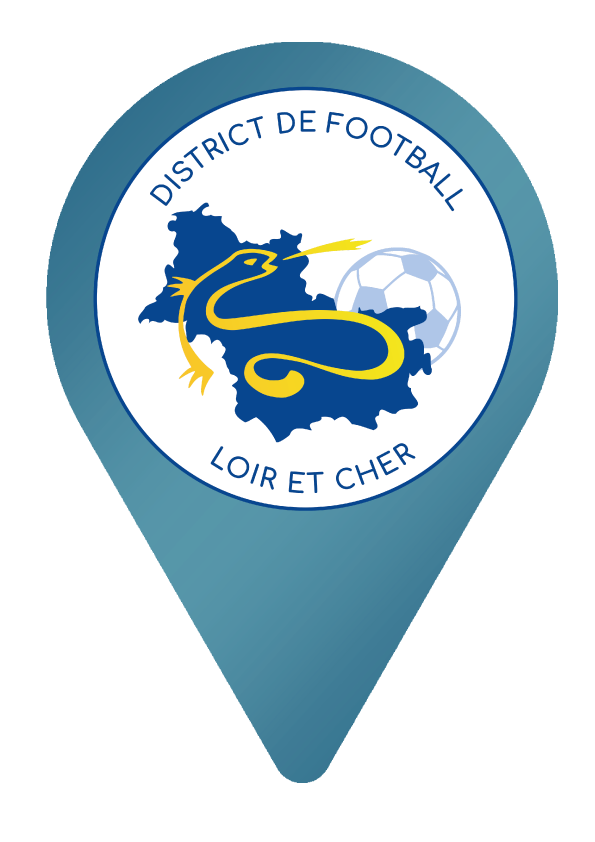
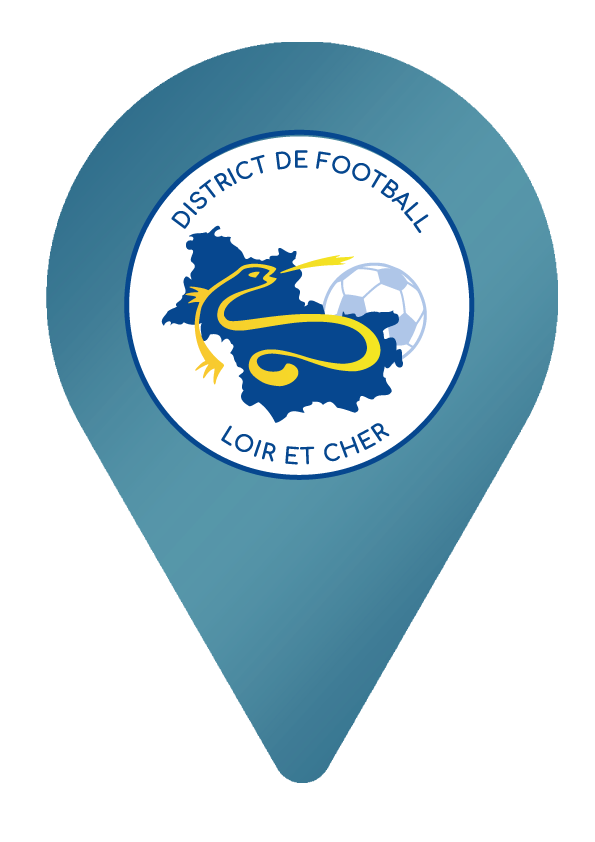
added pop up styles

Changed region(s): [[0.1513, 0.0926, 0.8773, 0.6176]]

diff --git a/src/components/Home/Home.jsx b/src/components/Home/Home.jsx
@@ -11,15 +11,17 @@ import LogoLigue from "../../assets/MarqueurLigue.png";
 import LogoLoiret from "../../assets/DistrictLoiret.png";
 import LogoEure from "../../assets/EureEtLoire.png";
 import LogoIndreLoire from "../../assets/IndreEtLoire.png";
-import LogoLoireCher from "../../assets/LoireEtCher.png";
-import LogoIndre from "../../assets/Marqueur-district-indre.png";
+import LogoLoireCher from "../../assets/Marqueurs/LoireCher2.png"
+import LogoIndre from "../../assets/indre.png";
 import LogoCher from "../../assets/Marqueur cher (1).png";
 import Header from "../header/Header";
 import Filters from "../filters/Filter";
 import Loader from "../loader/Loader";
+import loc from '../../assets/PopUp/localisation.png';
+import mail from '../../assets/PopUp/mail.png';
+import tel from '../../assets/PopUp/tel.png'
 
 function Home() {
-  const [instance, setInstance] = useState([]);
   const [club, setClub] = useState([]);
   const [equipe, setEquipe] = useState([]);
   const location = useGeolocation();
@@ -56,7 +58,7 @@ function Home() {
 
   const MarkerLoireEtCher = L.icon({
     iconSize: [50, 50],
-    iconAnchor: [23.5, 47],
+    iconAnchor: [40, 110],
     iconUrl: LogoLoireCher,
   });
 
@@ -124,7 +126,6 @@ function Home() {
             <a href="https://service-clubs.foot-centre.fr/">
               <img className="logoLigue" src={LogoLigue} />
               <h1>Ligue Centre Val de Loire </h1>
-              <h2> {instance.info} </h2>
             </a>
           </Popup>
         </Marker>
@@ -148,7 +149,6 @@ function Home() {
             <a href="https://stage.foot-centre.fr">
               <img className="logoInstance" src={LogoCher} />
               <h1>District de Football du Cher </h1>
-              <h2> {instance.info} </h2>
             </a>
           </Popup>
         </Marker>
@@ -157,7 +157,6 @@ function Home() {
             <a href="https://stage.foot-centre.fr">
               <img className="logoInstance" src={LogoEure} />
               <h1>District de Football d'Eure Et Loire </h1>
-              <h2> {instance.info} </h2>
             </a>
           </Popup>
         </Marker>
@@ -166,7 +165,6 @@ function Home() {
             <a href="https://stage.foot-centre.fr">
               <img className="logoInstance" src={LogoIndre} />
               <h1>District de Football de l'Indre </h1>
-              <h2> {instance.info} </h2>
             </a>
           </Popup>
         </Marker>
@@ -175,17 +173,22 @@ function Home() {
             <a href="https://stage.foot-centre.fr">
               <img className="logoInstance" src={LogoIndreLoire} />
               <h1>District de Football de l'Indre </h1>
-              <h2> {instance.info} </h2>
             </a>
           </Popup>
         </Marker>
-        <Marker position={[47.9168433, 1.9246721]} icon={MarkerLoiret} src="instance">
+        <Marker position={[47.9168433, 1.9246721]} icon={MarkerLoiret} >
           <Popup className="InstancePopUp">
             <a href="">
               <img className="logoInstance" src={LogoLoiret} />
               <h1>District de Football du Loiret </h1>
-              <h2> {instance.info} </h2>
             </a>
+          </Popup>
+        </Marker>
+        <Marker position={[47.5766331, 1.3026806]} icon={MarkerLoireEtCher}>
+          <Popup className="InstancePopUp">
+            <img className="logoInstance" src={LogoLoireCher}/>
+            <h1>District de Football du Loir et Cher</h1>
+
           </Popup>
         </Marker>
 
@@ -202,22 +205,21 @@ function Home() {
             return (
               <Marker position={[clubs.Lat, clubs.Longitude]} icon={markerClub}>
                 <Popup className="clubPopUp">
-                  <h1>{clubs.NomClub}</h1> <br></br>
-                  <h2>{clubs.AdressePostale}</h2>
+
+                  <h1 className="NameClub">{clubs.NomClub}</h1> <br></br>
+                <div className="details">
+                    <img src={loc} className="icons" />
+                  <h2 className="Content">{clubs.AdressePostale}</h2>
+                  </div>
                   <br></br>
-                  <h3>{clubs.MailClub}</h3>
+                  <div className="details">
+                  <img src={mail} className="mailIcon" />
+
+                  <h3 className="Content">{clubs.MailClub}</h3>
+
+                  </div>
                   <br></br>
-                  <p>
-                    {" "}
-                    Le championnat : {clubs.NomChampionnat}
-                    <br></br>
-                    L'équipe : {clubs.NomEquipe}
-                    <br></br>
-                    ID : {clubs.NumClub}
-                    <br></br>
-                    Nom : {clubs.NomClub}
-                    <br></br>
-                  </p>
+               
                 </Popup>
               </Marker>
             );

diff --git a/src/components/Club/Club.css b/src/components/Club/Club.css
@@ -5,8 +5,12 @@
 
 .Filtres {
   display: flex;
+  width: 100%;
   margin-bottom: 32px;
-  background-image: url("../../assets/filtres.png");
+  background-image: url("../../assets/Habillage/inputs.png");
+  background-position: center;
+  background-size: cover;
+  background-repeat: no-repeat;
   height: 10vh;
   flex-direction: row;
 }
@@ -15,24 +19,43 @@
   margin-top: 42px;
 }
 
-h1 {
-  color: black;
+.categoryFilter {
+  display: flex;
+  width: 100vw;
+  justify-content: center;
+  left: 10vw;
+  position: relative;
+}
+
+.selector {
+  position: relative;
+  left: 40%;
+  top: -20%;
+}
+
+.selector2 {
+  right: 22%;
+  top: -20%;
+  position: relative;
+}
+
+.buttonClub {
+  top: 14%;
 }
 
 .red {
-  color:#C1272D;
+  color: #c1272d;
   margin-right: 5px;
 }
 
 .blue {
-  color :#528BB9;
+  color: #528bb9;
   margin-right: 5px;
 }
 
 .results {
   display: flex;
   flex-direction: column;
-
 }
 
 .resultsDiv {
@@ -50,7 +73,6 @@ h1 {
 .resultsDivMobile {
   height: 200px;
 }
-
 
 .titleCard {
   border-bottom: 1px solid black;
@@ -72,7 +94,7 @@ button {
 }
 
 .filtresTitle {
-  margin-top:15vh;
+  margin-top: 15vh;
 }
 
 @media only screen and (min-width: 320px) and (max-width: 767px) {
@@ -89,7 +111,7 @@ button {
   .categoryFilter {
     display: block;
     width: 100vw;
-    margin:0;
+    margin: 0;
     height: 17vh;
     background-image: url("../../assets/filtres.png");
   }
@@ -114,7 +136,7 @@ button {
 
   .results {
     width: 100vw;
-    display: block;
+    display: flex;
   }
 
   .resultsDiv {
@@ -122,19 +144,17 @@ button {
   }
   .resultsDivMobile {
     width: 100vw;
-
+    background-color: red;
   }
 }
 @media only screen and (min-device-width: 768px) and (max-device-width: 1024px) {
-  
   .categoryFilter {
     display: block;
     width: 100vw;
-    margin:0;
+    margin: 0;
     height: 15vh;
     background-image: url("../../assets/filtres.png");
   }
-
 }
 
 /* Desktops and laptops ----------- */

diff --git a/src/components/Club/Club.jsx b/src/components/Club/Club.jsx
@@ -52,10 +52,10 @@ function Club() {
       <Header />
       <div className="Filtres">
         <div className="categoryFilter">
-          <label htmlFor="Category"> Catégorie :</label>
           <select
             name="chooseCategory"
             id="select-category"
+            className="selector"
             placeholder="Choisir categorie"
             onChange={(e) => {
               setSelectedCategory(e.target.value);
@@ -71,8 +71,8 @@ function Club() {
           </select>
 
           <form onSubmit={refreshPage} className="selectCity">
-            <label htmlFor="City"> Votre ville :</label>
             <select
+            className="selector2"
               onChange={(e) => {
                 setVille(e.target.value);
               }}
@@ -87,7 +87,7 @@ function Club() {
               })}
             </select>
           </form>
-          <button onClick={testFct}>Test</button>
+          <button className="buttonClub" onClick={testFct}>Test</button>
         </div>
       </div>
 

diff --git a/src/components/Home/Home.css b/src/components/Home/Home.css
@@ -1,3 +1,5 @@
+@import url('https://fonts.googleapis.com/css2?family=Bebas+Neue&family=Gothic+A1&display=swap');
+
 .leaflet-container {
   width: 100vw;
   height: 80vh;
@@ -17,9 +19,8 @@
 }
 
 .instance img {
-  height: 1000px;}
-
-
+  height: 1000px;
+}
 
 .logoInstance {
   width: 200px;
@@ -50,7 +51,41 @@
   overflow: auto;
 }
 
+.NameClub {
+  font-family: "Bebas Neue", cursive;
+  color: rgba(193, 39, 45);
+  text-align: center;
+  font-size: 3em;
+}
 
+.details {
+  display: flex;
+  flex-direction: row;
+  margin-right: 1em;
+}
+
+.icons {
+  width: 6em;
+  height: 4em;
+  margin-left: 1em;
+  margin-right: 1em;
+}
+
+.mailIcon {
+  width: 4em;
+  height: 3em;
+  margin-left: 1em;
+  margin-right: 1em;
+}
+
+.Content {
+  font-size: 1.5em;
+  font-family: 'Gothic A1', sans-serif;}
+
+  .clubPopUp {
+    display: flex;
+    flex-direction: column;
+  }
 
 @media only screen and (min-width: 321px) and (max-width: 767px) {
   .map {

diff --git a/src/components/header/Header.jsx b/src/components/header/Header.jsx
@@ -1,20 +1,8 @@
-import React from 'react'
-import './Header.css'
-import HeaderLogo from '../../assets/logoCFB.png'
-import { Link } from 'react-router-dom';
+import React from "react";
+import "./Header.css";
 
 function Header() {
-    return (
-        <div className="fullHeader">   
-         <Link to="/">
-        <img className="logo" src={HeaderLogo}/></Link>
-        
-        
-        
-
-            
-        </div>
-    )
+  return <div className="fullHeader"></div>;
 }
 
-export default Header
+export default Header;

diff --git a/src/components/filters/Filter.css b/src/components/filters/Filter.css
@@ -1,10 +1,9 @@
 .fullFilter {
     width: 100%;
     height: 10vh;
-    background-color: white;
     display: flex;
     justify-content: flex-end;
-    background-image: url('../../assets/filtres.png');
+    background-image: url('../../assets/Habillage/BandeauhabillagePNG.png');
     background-size: cover;
     background-position: center;
     

diff --git a/src/components/header/Header.css b/src/components/header/Header.css
@@ -7,7 +7,7 @@
   justify-content: space-between;
   align-items: center;
   align-content: center;
-  background-image: url("../../assets/header.png");
+  background-image: url("../../assets/Habillage/header.png");
   background-size: cover;
   background-position: center;
 }
